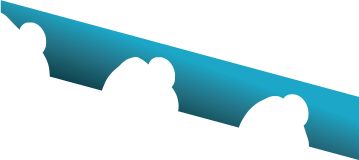
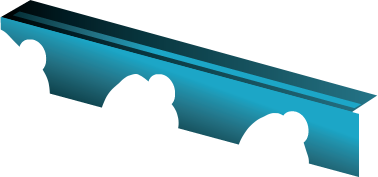
fixed overlay

Changed region(s): [[0.0, 0.0, 1.0, 1.0]]

diff --git a/interactives/Firewall/firewall.js b/interactives/Firewall/firewall.js
@@ -24,9 +24,7 @@ require(["Phaser", "PacketManager"], function (Phaser, PacketManager) {
 		this.game.load.image("arrow1", 'assets/arrow1.png');
 		this.game.load.image("arrow2", 'assets/arrow2.png');
 		this.game.load.image("arrow3", 'assets/arrow3.png');
-		this.game.load.image("overlay1", 'assets/overlay1.png');
-		this.game.load.image("overlay2", 'assets/overlay2.png');
-		this.game.load.image("overlay3", 'assets/overlay3.png');
+		this.game.load.image("overlay", 'assets/firewall_overlay.png');
 		this.game.load.image("magnifying glass", 'assets/magnifying_glass.png');
 		this.game.load.image("success popup", 'assets/success_alert.png');
 		this.game.load.image("failure popup", 'assets/failure_alert.png');
@@ -47,18 +45,6 @@ require(["Phaser", "PacketManager"], function (Phaser, PacketManager) {
 		this.doorGroup = game.add.group();
 		this.frontArrowGroup = game.add.group();
 		this.frontPacketGroup = game.add.group();
-		
-		this.panel.add(new Phaser.Sprite(game, 357, 306, "overlay1"));
-		this.panel.add(new Phaser.Sprite(game, 436, 327, "overlay2"));
-		this.panel.add(new Phaser.Sprite(game, 569, 363, "overlay3"));				
-		
-		this.arrows = [
-			new Phaser.Sprite(game, 0, 330, "arrow1"),
-			new Phaser.Sprite(game, 0, 370, "arrow2"),
-			new Phaser.Sprite(game, 0, 410, "arrow3") ];
-		this.arrowGroup.add(this.arrows[0]);
-		this.arrowGroup.add(this.arrows[1]);
-		this.arrowGroup.add(this.arrows[2]);
 					
 		this.doorPositions = [ [375, 256, 318], [505, 292, 353], [638, 328, 390] ];
 		for (var i = 0; i <= 2; i++) {
@@ -69,6 +55,16 @@ require(["Phaser", "PacketManager"], function (Phaser, PacketManager) {
 			door.index = i;
 			door.events.onInputDown.add(this.togglePort, this);
 		}
+		
+		this.panel.add(new Phaser.Sprite(game, 357, 289, "overlay"));				
+		
+		this.arrows = [
+			new Phaser.Sprite(game, 0, 330, "arrow1"),
+			new Phaser.Sprite(game, 0, 370, "arrow2"),
+			new Phaser.Sprite(game, 0, 410, "arrow3") ];
+		this.arrowGroup.add(this.arrows[0]);
+		this.arrowGroup.add(this.arrows[1]);
+		this.arrowGroup.add(this.arrows[2]);
 		
 		this.packetManager = new PacketManager(this.game, this.backPacketGroup, this.frontPacketGroup);
 		
